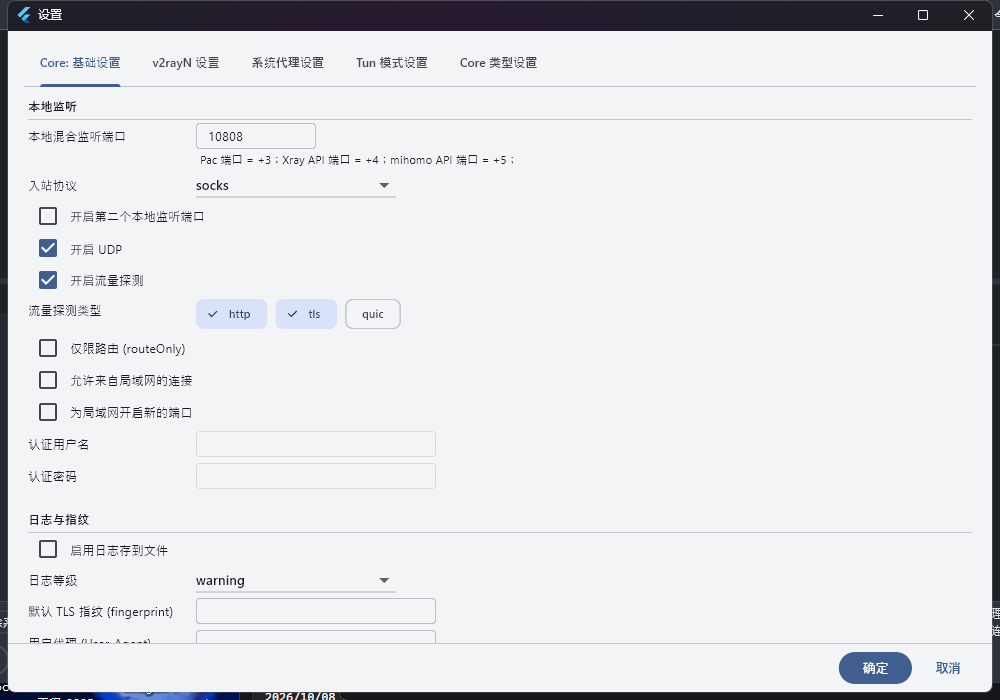
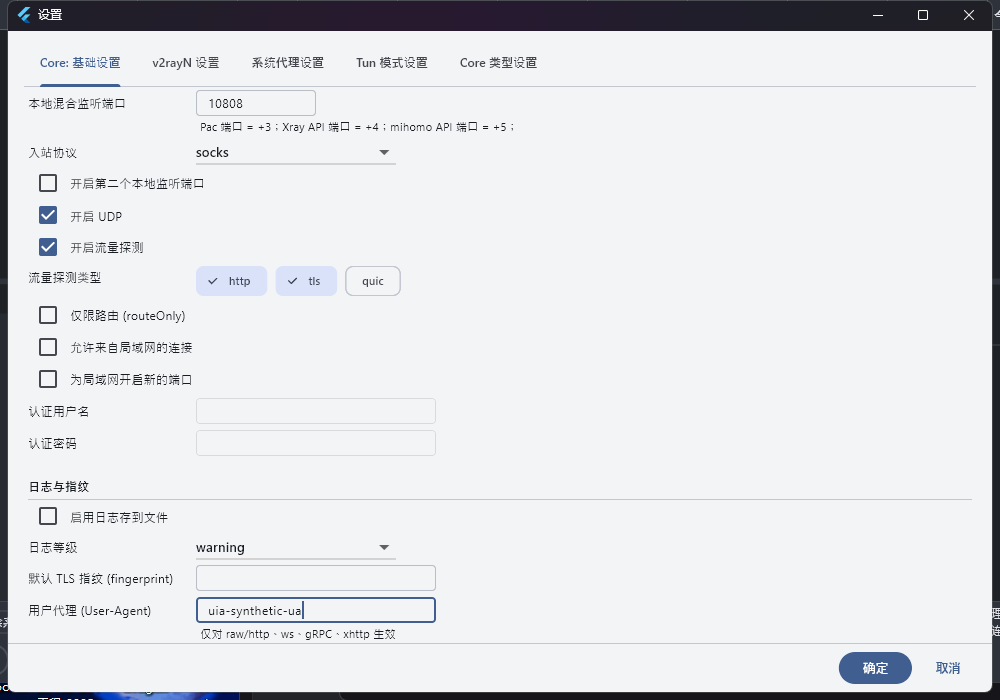
Desktop UI automation: foreground AttachThreadInput fallback, client-origin screen conversion, semantics value exposure; real-click E2E PASSED (menu->settings->tab switch->UA field typed+confirmed->cancel->screenshot); README workflow + manifest note

diff --git a/tools/ui/README.md b/tools/ui/README.md
@@ -119,3 +119,58 @@ becomes a matchable node. See `Get-UiSemantics` / `ConvertTo-UiRect` /
   `tools/acceptance/sp30_ui_hooks_capture.ps1`).
 - Neutral-target proof (notepad find + real-click + type + shot): see
   `docs/evidence/stable-port/SP-30/uia-semantics-bridge-2026-10-08.md`.
+
+## Semantics-bridge workflow (armed package) — verified 2026-10-08
+
+The pinned Flutter Windows engine ships **no accessibility bridge** (UIA/MSAA
+see only the FLUTTERVIEW pane; `flutter_windows.dll` lacks IAccessibleEx /
+AccessibilityBridgeWindows), so element location for the Flutter app uses the
+armed **semantics snapshot** instead of UIA:
+
+1. Build the armed evidence package (`build_windows.ps1 -SmokeArmed`).
+2. Launch it with an isolated data dir and:
+   - `V2RAYN_R_ENABLE_SEMANTICS=1`
+   - `V2RAYN_R_SEMANTICS_DUMP=<abs path>\semantics.json`
+   The main engine writes `semantics.json`; the settings engine writes
+   `semantics.json.settings` (same hook, `.settings` suffix). Each node carries
+   `identifier`/`label`/`value`/`rect` (logical, view-relative)/`actions`.
+3. Locate by `-Identifier`/`-Label` via `Get-UiElement -Window <win> -SemanticsPath <dump>`
+   (the module adds the window client origin so the returned rect/center are in
+   **screen** coordinates).
+4. Drive REAL input: `Invoke-UiRealClick/-DoubleClick/-RightClick -Element`,
+   `Send-UiText -Window`, `Send-UiKey`. No UIA InvokePattern, no app API.
+5. Verify state by re-reading the snapshot (`Get-UiSemantics` now exposes
+   `value`), then screenshot with `Save-UiShot`.
+
+### Verified end-to-end (real clicks)
+
+`tools/ui/e2e_settings_nav.ps1` (run under Windows PowerShell 5.1 with a fixed
+PSModulePath when invoked from pwsh):
+
+```
+powershell -NoProfile -ExecutionPolicy Bypass -File tools/ui/e2e_settings_nav.ps1 `
+  -Zip dist/evidence-armed/v2rayN-R-1.0.0+1-windows-x64.zip `
+  -EvidenceDir docs/evidence/stable-port/SP-30/runs/<candidate>/ui-e2e
+```
+
+Flow (all steps `ok`): find main window (UIA window-level) -> real-click 设置
+menu -> real-click 参数设置 (submenu) -> wait settings window -> real-click
+核心类型设置 tab -> back to Core tab -> real-click User-Agent field -> type
+`uia-synthetic-ua` -> confirm value from a fresh snapshot -> screenshot ->
+real-click 取消 (discard; nothing saved) -> stop the PID tree.
+Evidence: `docs/evidence/stable-port/SP-30/runs/.../ui-e2e/e2e-settings-nav.json`
++ `e2e-settings-typed.png`.
+
+### Limitations
+
+- Unarmed (official) builds expose no semantics: automation requires the armed
+  build + env flags (default MSAA/UIA behaviour of the official package is
+  unchanged; the runner IAccessibleEx opt-in is env-gated).
+- `Semantics.identifier` reaches the snapshot, not UIA AutomationId (engine
+  gap). Labels are matched case-insensitively but exactly.
+- Rects are logical pixels; the module assumes DPR 1.0 (host is 96 DPI) for
+  screen conversion; other DPIs need a DPR scale (recorded gap).
+- Real mouse/keyboard require the target window foreground and unobscured; the
+  module performs an AttachThreadInput-backed foreground ensure.
+- Input/coordinate fallback (`-X/-Y -AllowCoordinates`) exists but must be
+  explicitly opted into and is marked `locatedBy=coordinates`.
